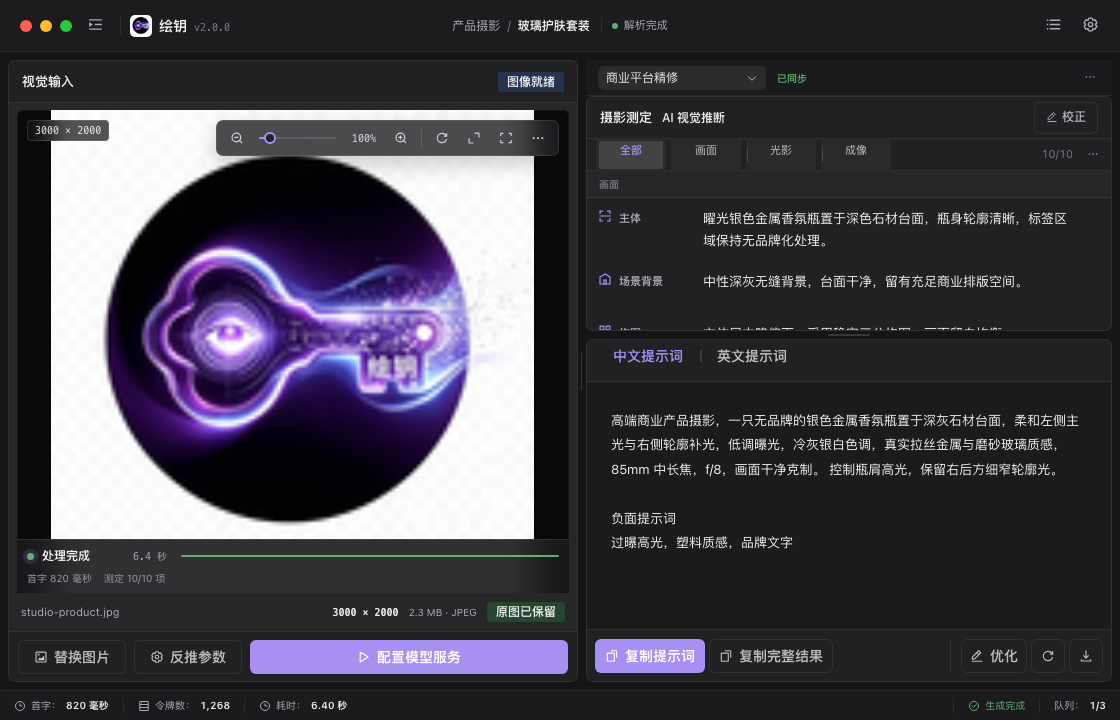
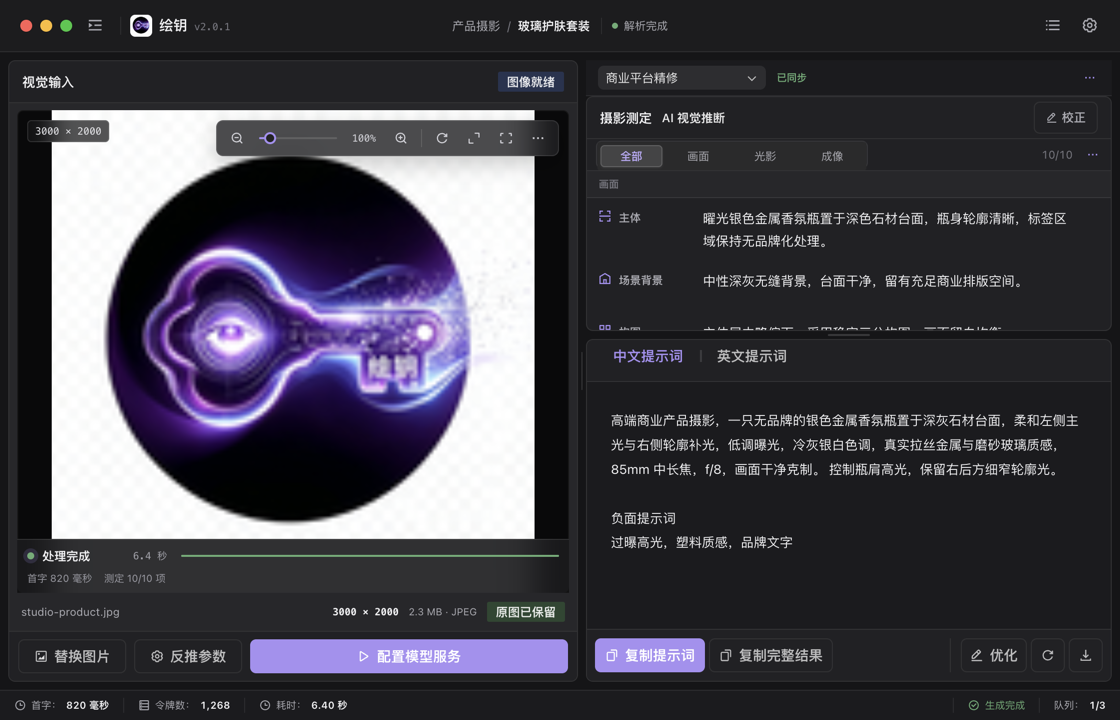
feat(ui): polish analysis group navigation

diff --git a/src/features/analysis/analysis.css b/src/features/analysis/analysis.css
@@ -20,8 +20,13 @@
 .analysis-header-actions .arco-btn:hover { color: var(--brand); background: var(--brand-soft); }
 .analysis-subhead { position: sticky; z-index: 2; top: 0; display: flex; align-items: center; justify-content: space-between; gap: 8px; padding: 0 6px 0 9px; border-bottom: 1px solid var(--border); color: var(--muted); background: var(--surface); font-size: 11px; }
 .analysis-subhead > div { display: flex; min-width: 0; align-items: center; gap: 8px; }
-.analysis-subhead .arco-radio-group { flex: 0 0 auto; }
-.analysis-subhead .arco-radio-button { min-height: 28px; padding: 0 9px; border-color: transparent !important; font-size: 11px; }
+.analysis-group-nav.arco-radio-group { display: grid; flex: 1 1 272px; max-width: 272px; min-width: 0; height: 28px; grid-template-columns: repeat(4, minmax(0, 1fr)); gap: 2px; padding: 2px; border: 1px solid var(--border); border-radius: 6px; background: var(--surface-2); }
+.analysis-group-nav .arco-radio-button { display: flex; min-width: 0; height: 22px; min-height: 22px; align-items: center; justify-content: center; padding: 0; color: var(--muted); border: 0 !important; border-radius: 4px !important; background: transparent; font-size: 11px; transition: color 150ms ease, background-color 150ms ease, box-shadow 150ms ease, transform 120ms ease; }
+.analysis-group-nav .arco-radio-button::before { display: none; }
+.analysis-group-nav .arco-radio-button-inner { display: block; width: 100%; padding: 0 !important; overflow: hidden; line-height: 22px; text-align: center; text-overflow: ellipsis; white-space: nowrap; }
+.analysis-group-nav .arco-radio-button:hover { color: var(--text); background: color-mix(in srgb, var(--surface-3) 72%, transparent); }
+.analysis-group-nav .arco-radio-button:active { transform: scale(.98); }
+.analysis-group-nav .arco-radio-button.arco-radio-checked { color: var(--brand-strong); background: var(--surface); box-shadow: inset 0 0 0 1px var(--border-strong), 0 1px 2px color-mix(in srgb, var(--text) 8%, transparent); font-weight: 650; }
 .analysis-expand-actions { justify-content: flex-end; }
 .analysis-expand-actions > span { color: var(--faint); font-variant-numeric: tabular-nums; }
 .analysis-expand-all { color: var(--muted) !important; font-size: 11px !important; }

diff --git a/src/features/analysis/ResultPanel.tsx b/src/features/analysis/ResultPanel.tsx
@@ -116,7 +116,7 @@ export function ResultPanel({ result, generationState, captureMetadata, onRefine
         <div className="analysis-header-actions">{showPanelStatus ? <Badge status={badgeStatus} text={status} /> : null}{onRefine ? <Button size="mini" icon={<IconEdit />} onClick={onRefine}>校正</Button> : null}</div>
       </header>
       <div className="analysis-subhead">
-        <Radio.Group type="button" size="mini" value={activeGroup} onChange={(value) => locateGroup(value as "all" | AnalysisGroup)} aria-label="摄影测定分组定位">
+        <Radio.Group className="analysis-group-nav" type="button" size="mini" value={activeGroup} onChange={(value) => locateGroup(value as "all" | AnalysisGroup)} aria-label="摄影测定分组定位">
           <Radio value="all">全部</Radio><Radio value="frame">画面</Radio><Radio value="light">光影</Radio><Radio value="imaging">成像</Radio>
         </Radio.Group>
         <div className="analysis-expand-actions"><span>{completedCount}/{rows.length}</span><Dropdown trigger="click" position="br" droplist={<Menu onClickMenuItem={(key) => {

diff --git a/src/features/analysis/ResultPanel.test.tsx b/src/features/analysis/ResultPanel.test.tsx
@@ -36,6 +36,10 @@ describe("ResultPanel", () => {
     expect(screen.getByText("后期处理")).toBeInTheDocument();
     expect(screen.getByText(result.analysis.subject)).toBeInTheDocument();
     expect(screen.getByText("10/10")).toBeInTheDocument();
+    const groupNav = screen.getByLabelText("摄影测定分组定位");
+    expect(groupNav).toHaveClass("analysis-group-nav");
+    expect(screen.getAllByRole("radio")).toHaveLength(4);
+    expect(screen.getByRole("radio", { name: "全部" })).toBeChecked();
     const rows = document.querySelectorAll(".analysis-item");
     expect(rows).toHaveLength(10);
     expect(Array.from(rows).map((row) => row.getAttribute("data-analysis-key"))).toEqual([

diff --git a/docs/engineering/frontend.md b/docs/engineering/frontend.md
@@ -47,6 +47,8 @@
 
 项目栏密度、项目概览连续布局、摄影测定行高和提示词阅读宽度分别由 `features/projects/projects.css`、`features/analysis/analysis.css` 与 `features/prompts/prompts.css` 维护。结果完成状态不在多个面板重复渲染；统一修订栏只常驻版本、同步状态和“更多”入口，危险删除通过组件内 Modal 明确确认并保留级联影响说明。
 
+摄影测定分组定位由 `ResultPanel` 的 `analysis-group-nav` 承载，继续使用 Arco `Radio.Group` 的语义和键盘行为；视觉覆盖仅位于 `features/analysis/analysis.css`，四段等宽并复用全局表面、边框和焦点 Token，不在组件内写入主题颜色。
+
 设置分类导航由页面内 `IntersectionObserver` 跟踪当前区段，卸载时必须断开观察器；日志工具栏保持筛选组和操作组两个稳定容器，由响应式样式决定是否换行。
 
 图片查看器由独立的 `ImageViewer` 组件负责，`viewerGeometry` 只保存无 DOM 依赖的适应比例、真实像素缩放、平移边界和导航器映射。查看器使用绝对显示比例而不是相对适应比例；高频指针、滚轮和导航器移动通过 `requestAnimationFrame` 合并，渲染只更新 `translate3d + scale`。导航缩略图复用已经加载的图片地址，不重新读取原图或调用 IPC。

diff --git a/docs/design/ui-system.md b/docs/design/ui-system.md
@@ -47,6 +47,7 @@
 - 项目栏的搜索和筛选共享一行，入队预设与队列控制保持独立层级；任务行优先显示缩略图、标题和状态，标签与原图标识使用无底色的次级文本。
 - 项目概览使用最大 960px 的连续内容区，标题、状态带和最近任务形成单一阅读轴，不使用大面积卡片填充空白。
 - 摄影测定正文使用 13px 字号、约 1.72 行高和不超过 72ch 的行宽；悬停只改变中性表面，展开状态才使用品牌弱底色。
+- 摄影测定的“全部 / 画面 / 光影 / 成像”使用单一连续分段控件：四段等宽、共享中性底板，仅当前项使用表面抬升和品牌文字，不显示块状间隔或重复分隔线。
 - 提示词正文限制为约 68ch，使用更宽松的段落行距；底部复制组与后续工作流组使用弱分隔，避免五个操作被识别为同一优先级。
 - 完成状态由顶栏和底部状态栏承接，摄影测定标题栏不重复显示“测定完成”；空闲、流式、停止和兼容解析仍保留就地状态。
 

diff --git a/docs/assets/ui/current/README.md b/docs/assets/ui/current/README.md
@@ -4,8 +4,8 @@
 
 本轮舒适专业布局优化的核心基线：
 
-- `professional-refinement-light-1440x900.png`：2.0 宽屏浅色统一修订工作台。
-- `professional-refinement-dark-1120x720.png`：2.0 窄屏深色统一修订工作台。
+- `professional-refinement-light-1440x900.png`：2.0 宽屏浅色统一修订工作台与连续摄影测定分组导航。
+- `professional-refinement-dark-1120x720.png`：2.0 窄屏深色统一修订工作台与连续摄影测定分组导航。
 - `analysis-refinement-light-1440x900.png`：摄影测定校正、字段锁定与本地草稿。
 - `revision-compare-dark-1120x720.png`：窄屏修订比较和单列内容布局。
 - `revision-delete-confirm-light-1440x900.png`：修订更多菜单中的危险删除确认及级联影响说明。

diff --git a/docs/design/interaction.md b/docs/design/interaction.md
@@ -54,6 +54,7 @@
 ## 结果阅读
 
 - 摄影测定十项按画面、光影和成像分组，每项占完整宽度。
+- 分组定位使用一个连续的四段导航；点击后平滑定位到对应组，当前项持续可见，悬停、按下和键盘焦点不改变控件尺寸。
 - 默认显示摘要，可单项、分组或全部展开；完整模型内容始终保留。
 - 流式阶段冻结结果分隔，完成后仅自动测量一次；用户手动比例优先并持久化。
 - 提示词正文独立滚动，只有用户位于底部时才自动跟随流式内容。

diff --git a/docs/product/refinement.md b/docs/product/refinement.md
@@ -16,6 +16,8 @@
 3. 修改过的字段会自动锁定，也可以手动解锁。
 4. 先保存本地草稿，再按需同步提示词。
 
+结果面板顶部的“全部 / 画面 / 光影 / 成像”分段导航用于快速定位测定组，当前分组会持续高亮；它只改变阅读位置，不修改或筛选测定内容。
+
 本地草稿不需要 API Key。同步失败不会丢失草稿，错误区会提供重试、关联日志和诊断导出。
 
 ## EXIF 与 AI 重测
